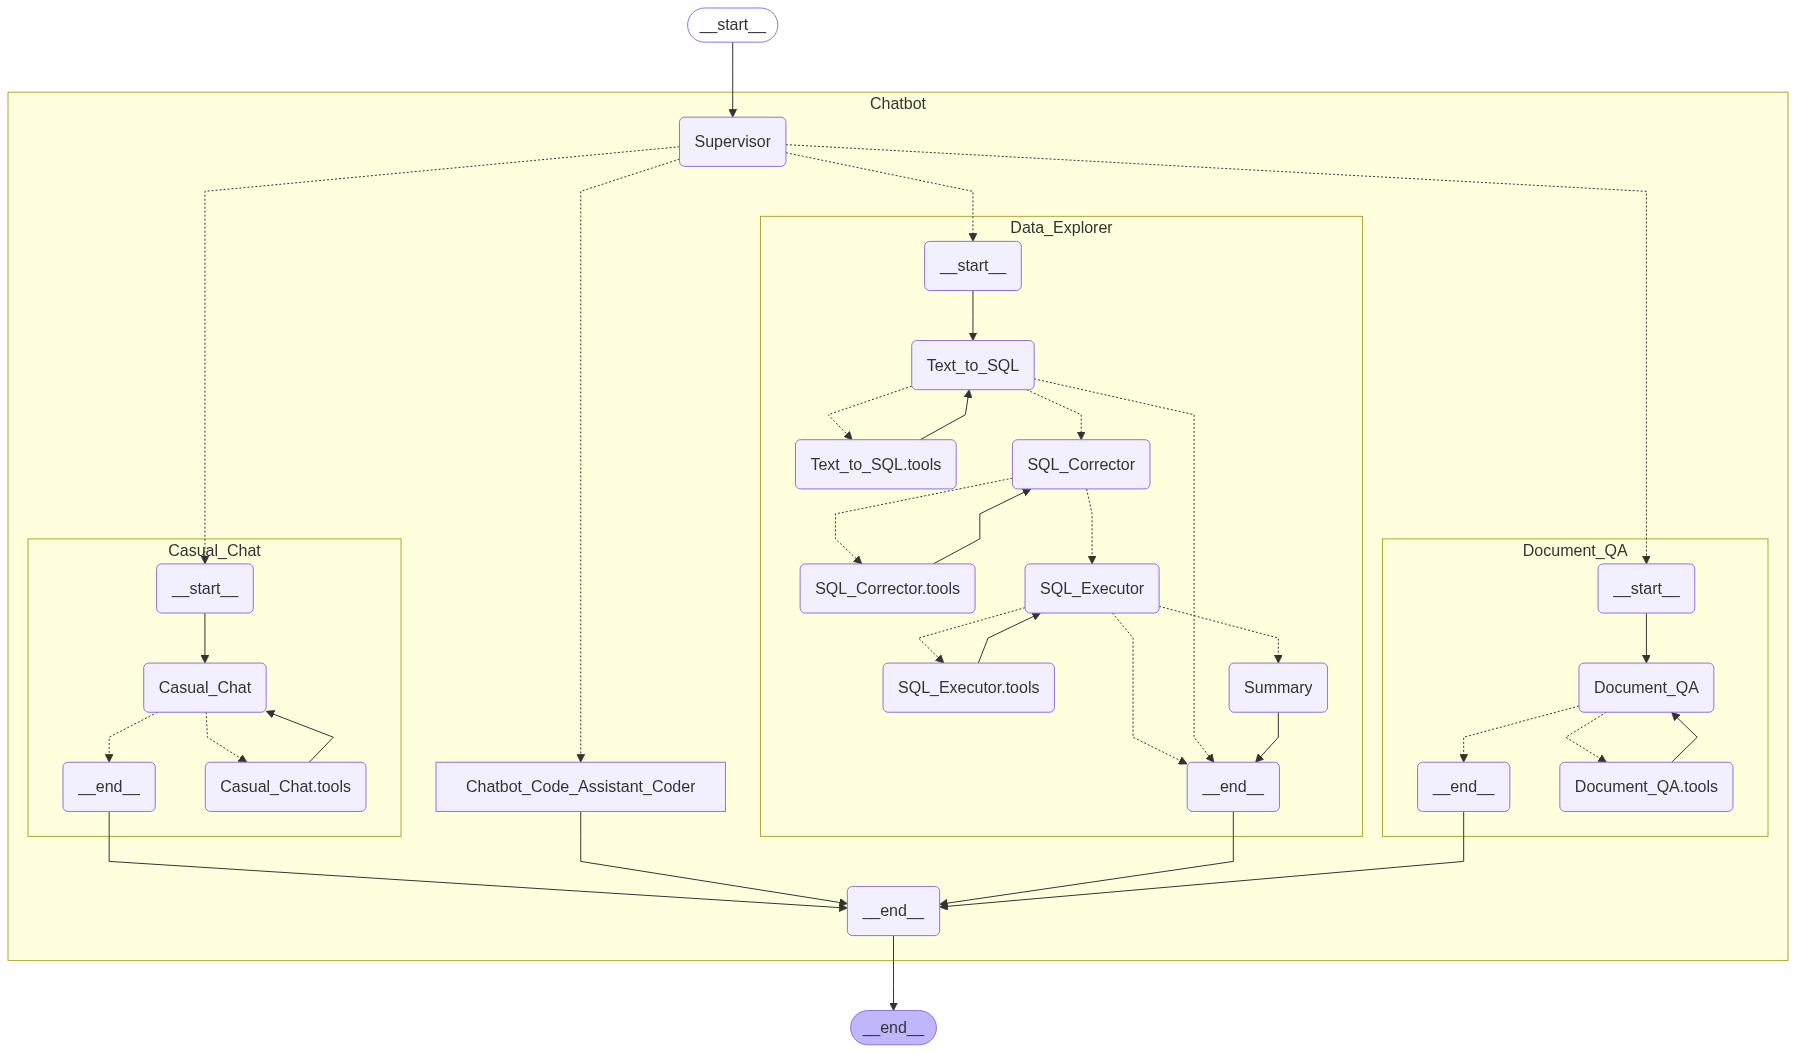
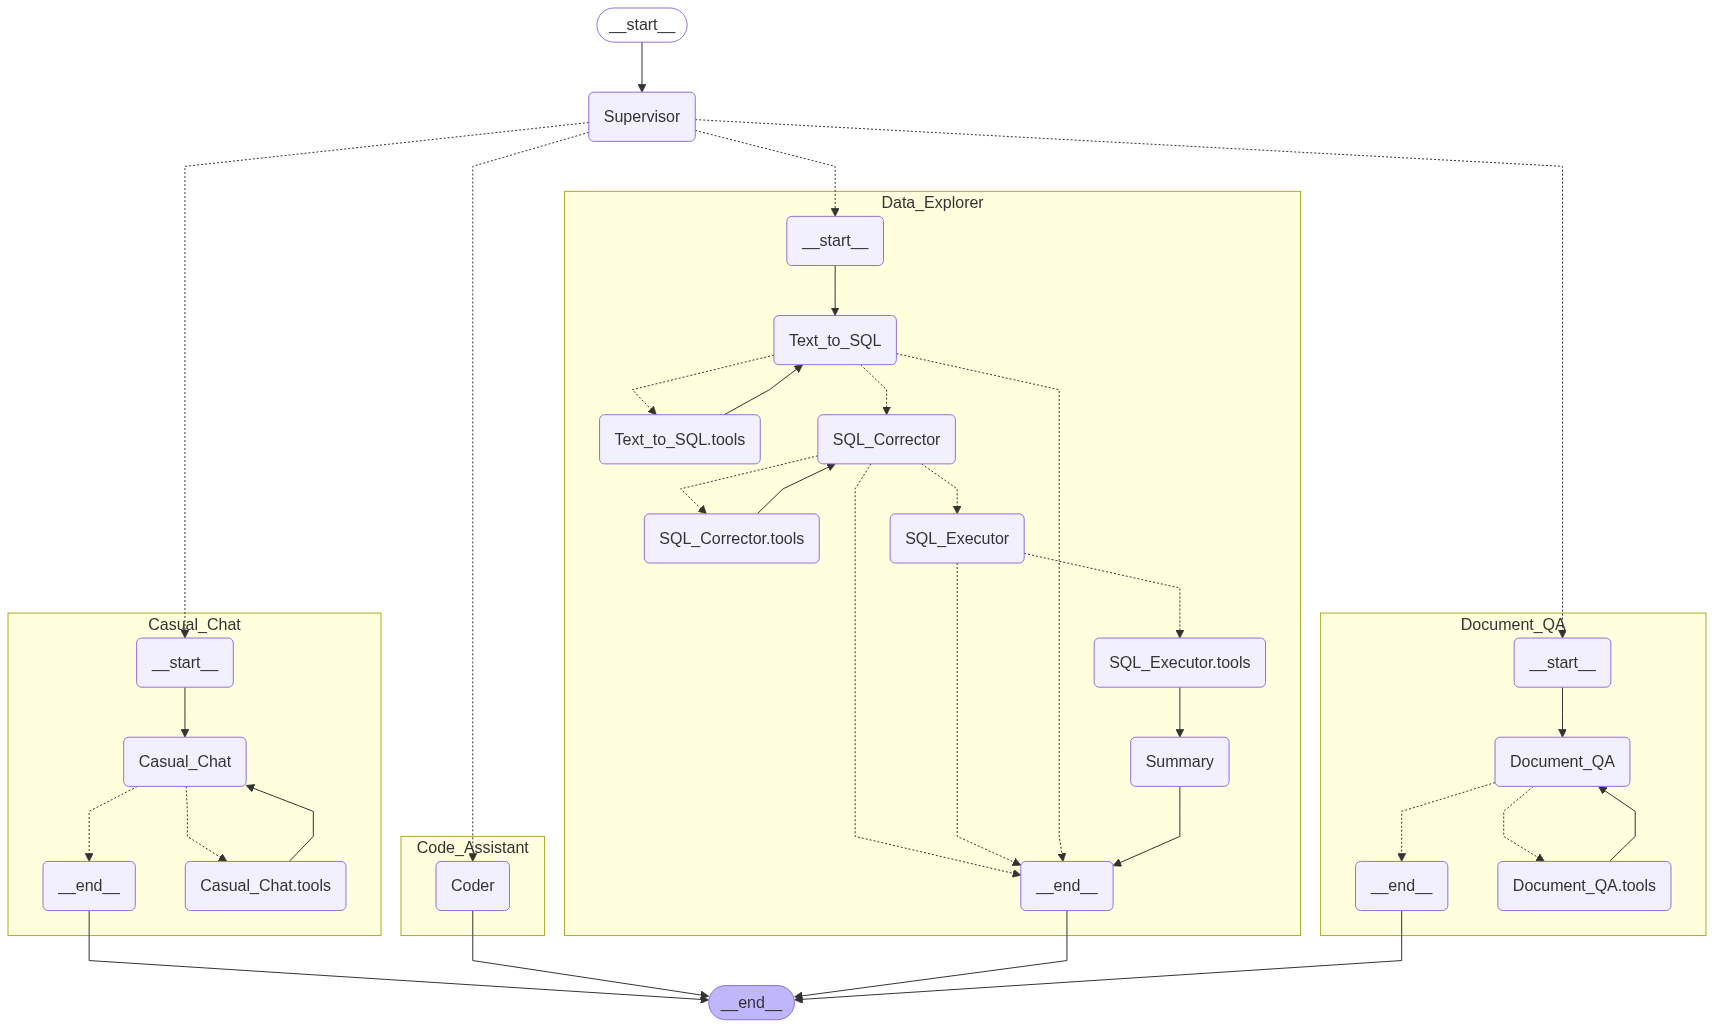
Update agent flow

diff --git a/agent-service/app/agents/data_explorer/nodes/sql_executor.py b/agent-service/app/agents/data_explorer/nodes/sql_executor.py
@@ -1,6 +1,6 @@
-from langchain_core.prompts import ChatPromptTemplate, MessagesPlaceholder
+from langchain_core.prompts import ChatPromptTemplate
 from langchain_core.runnables import RunnableSerializable
-from langchain_core.messages import SystemMessage, HumanMessage, AIMessage
+from langchain_core.messages import SystemMessage
 from langgraph.prebuilt import ToolNode
 
 from app.agents.data_explorer.state import GraphState
@@ -27,23 +27,9 @@ SYSTEM_PROMPT = """
 
 3. **실행 위임 (Execution Delegation)**:
   - 모든 검증을 통과한 쿼리는 `execute_query` **도구를 사용**하여 데이터베이스로 전달합니다. 당신이 직접 쿼리를 실행하는 것이 아니라, 도구에 위임하는 역할입니다.
-
-4. **결과 요약 (Summary)**:
-  - 당신은 필요한 `대상 쿼리`를 모두 수행하여 **데이터를 수집 후** 지금까지의 데이터 분석 결과를 바탕으로 요약하여 `사용자의 원래 질문`에 응답합니다. 
-  - 사용자가 이해하기 쉬운 **핵심적인 내용을 요약**하여, 간결하고 명확한 문장으로 최종 보고서를 작성합니다.
-  - 사용자의 질문에 대한 대답을 할 수 있는 요약을 작성합니다. 예를 들어, "총 5개의 제품이 검색되었으며, 가장 인기 있는 제품은 'A'입니다." 와 같이 요약해 주세요.
-  - 만약 사용자 질문에 정확히 대답할 수 없다면, 정확한 정보를 확인할 수 없다고 알려주세요.
 """.rstrip()
 
-USER_PROMPT = """
-**사용자의 원래 질문**:
-{user_question}
-
-**대상 쿼리**:
-{corrected_sql}
-"""
-
-REASONING = True
+REASONING = False
 
 TOOLS = [execute_query]
 
@@ -51,12 +37,10 @@ TOOLS = [execute_query]
 def get_runnable_chain() -> RunnableSerializable:
     llm = config.get_default_llm(reasoning=REASONING)
     llm = llm.bind_tools(tools=TOOLS)
-    
     prompt_template = ChatPromptTemplate.from_messages(
         [
             SystemMessage(SYSTEM_PROMPT),
-            MessagesPlaceholder(variable_name="messages"),
-            ("human", USER_PROMPT)
+            ("human", "**입력 쿼리**:\n{corrected_sql}")
         ]
     )
     chain = prompt_template | llm
@@ -64,30 +48,20 @@ def get_runnable_chain() -> RunnableSerializable:
 
 
 def node(state: GraphState) -> dict:
-    # 3번째 전 사용자 입력 이후의 대화 내용만 참고하여 결과를 생성합니다.
-    trimmed_messages = trim_messages_from(state["messages"], HumanMessage, 3)
-    # Node는 순수 함수여서 state 객체 업데이트는 그래프 영구 상태에는 영향을 주지 않으므로 안전합니다.
-    state.update({"messages": trimmed_messages})
-    
     chain = get_runnable_chain()
     response = chain.invoke(state)
     response = compose_message_context(response)
     
-    # Tool 호출의 경우
+    # 도구 호출 성공
     if response.tool_calls:
-        # 쿼리 실행을 위한 사용자 승인 요청
-        tool_calls = human_in_the_loop(response.tool_calls, allow_edit=True)
-        if not tool_calls:
-            return {"messages": [response, AIMessage(content="사용자가 요청을 취소했습니다.")]}
-        response.tool_calls = tool_calls
+        # # 쿼리 실행을 위한 사용자 승인 요청
+        # tool_calls = human_in_the_loop(response.tool_calls, allow_edit=True)
+        # if not tool_calls:
+        #     return {"messages": [response, AIMessage(content="사용자가 요청을 취소했습니다.")]}
+        # response.tool_calls = tool_calls
         return {"messages": [response]}
-    
-    # LLM 응답이 있는 경우
-    if response.content:
-        return {"messages": [response]}
-    
-    # 기타
-    return {"messages": [AIMessage(content="응답에 실패했습니다.")]}
+
+    return {"messages": [response]}
 
 
 tool_nodes = ToolNode(

diff --git a/agent-service/app/agents/data_explorer/nodes/summary.py b/agent-service/app/agents/data_explorer/nodes/summary.py
@@ -1,0 +1,38 @@
+from langchain_core.prompts import ChatPromptTemplate, MessagesPlaceholder
+from langchain_core.runnables import RunnableSerializable
+from langchain_core.messages import SystemMessage
+
+from app.agents.data_explorer.state import GraphState
+from app.utils.helper import compose_message_context
+from app import config
+
+
+SYSTEM_PROMPT = """
+**결과 요약 (Summary)**:
+- 당신은 필요한 지금까지의 수집된 데이터 분석 결과를 바탕으로 요약하여 `사용자의 원래 질문`에 응답합니다. 
+- 사용자가 이해하기 쉬운 **핵심적인 내용을 요약**하여, 간결하고 명확한 문장으로 최종 보고서를 작성합니다.
+- 사용자의 질문에 대한 대답을 할 수 있는 요약을 작성합니다. 예를 들어, "총 5개의 제품이 검색되었으며, 가장 인기 있는 제품은 'A'입니다." 와 같이 요약해 주세요.
+- 만약 사용자 질문에 정확히 대답할 수 없다면, 정확한 정보를 확인할 수 없다고 알려주세요.
+""".rstrip()
+
+REASONING = False
+
+
+def get_runnable_chain() -> RunnableSerializable:
+    llm = config.get_default_llm(reasoning=REASONING)
+    prompt_template = ChatPromptTemplate.from_messages(
+        [
+            SystemMessage(SYSTEM_PROMPT),
+            MessagesPlaceholder(variable_name="messages"),
+            ("human", "**사용자의 원래 질문**:\n{user_question}")
+        ]
+    )
+    chain = prompt_template | llm
+    return chain
+
+
+def node(state: GraphState) -> dict:
+    chain = get_runnable_chain()
+    response = chain.invoke(state)
+    response = compose_message_context(response)
+    return {"messages": [response]}

diff --git a/agent-service/app/agents/data_explorer/graph.py b/agent-service/app/agents/data_explorer/graph.py
@@ -9,7 +9,7 @@ from typing import Literal
 from langgraph.graph import StateGraph, START, END
 
 from app.agents.data_explorer.state import GraphState
-from app.agents.data_explorer.nodes import text_to_sql, sql_corrector, sql_executor
+from app.agents.data_explorer.nodes import text_to_sql, sql_corrector, sql_executor, summary
 
 
 def text_to_sql_tools_condition(state: GraphState) -> Literal["Text_to_SQL.tools", "SQL_Corrector", "__end__"]:
@@ -58,6 +58,7 @@ workflow.add_node("SQL_Corrector", sql_corrector.node)
 workflow.add_node("SQL_Corrector.tools", sql_corrector.tool_nodes)
 workflow.add_node("SQL_Executor", sql_executor.node)
 workflow.add_node("SQL_Executor.tools", sql_executor.tool_nodes)
+workflow.add_node("Summary", summary.node)
 
 workflow.add_edge(START, "Text_to_SQL")
 workflow.add_conditional_edges("Text_to_SQL", text_to_sql_tools_condition)
@@ -65,6 +66,7 @@ workflow.add_edge("Text_to_SQL.tools", "Text_to_SQL")
 workflow.add_conditional_edges("SQL_Corrector", sql_corrector_tools_condition)
 workflow.add_edge("SQL_Corrector.tools", "SQL_Corrector")
 workflow.add_conditional_edges("SQL_Executor", sql_executor_tools_condition)
-workflow.add_edge("SQL_Executor.tools", "SQL_Executor")
+workflow.add_edge("SQL_Executor.tools", "Summary")
+workflow.add_edge("Summary", END)
 
 graph = workflow.compile()

diff --git a/agent-service/app/cli_graph.py b/agent-service/app/cli_graph.py
@@ -6,6 +6,10 @@ from langchain_core.messages import AIMessage
 from app.agents import supervisor
 
 
+# with open("./app/graph.png", "wb") as f:
+#     f.write(supervisor.graph.graph.get_graph(xray=True).draw_mermaid_png())
+
+
 def chatbot(state: MessagesState):
     response = supervisor.graph.graph.invoke(state)
     ai_message = response["messages"][-1]
